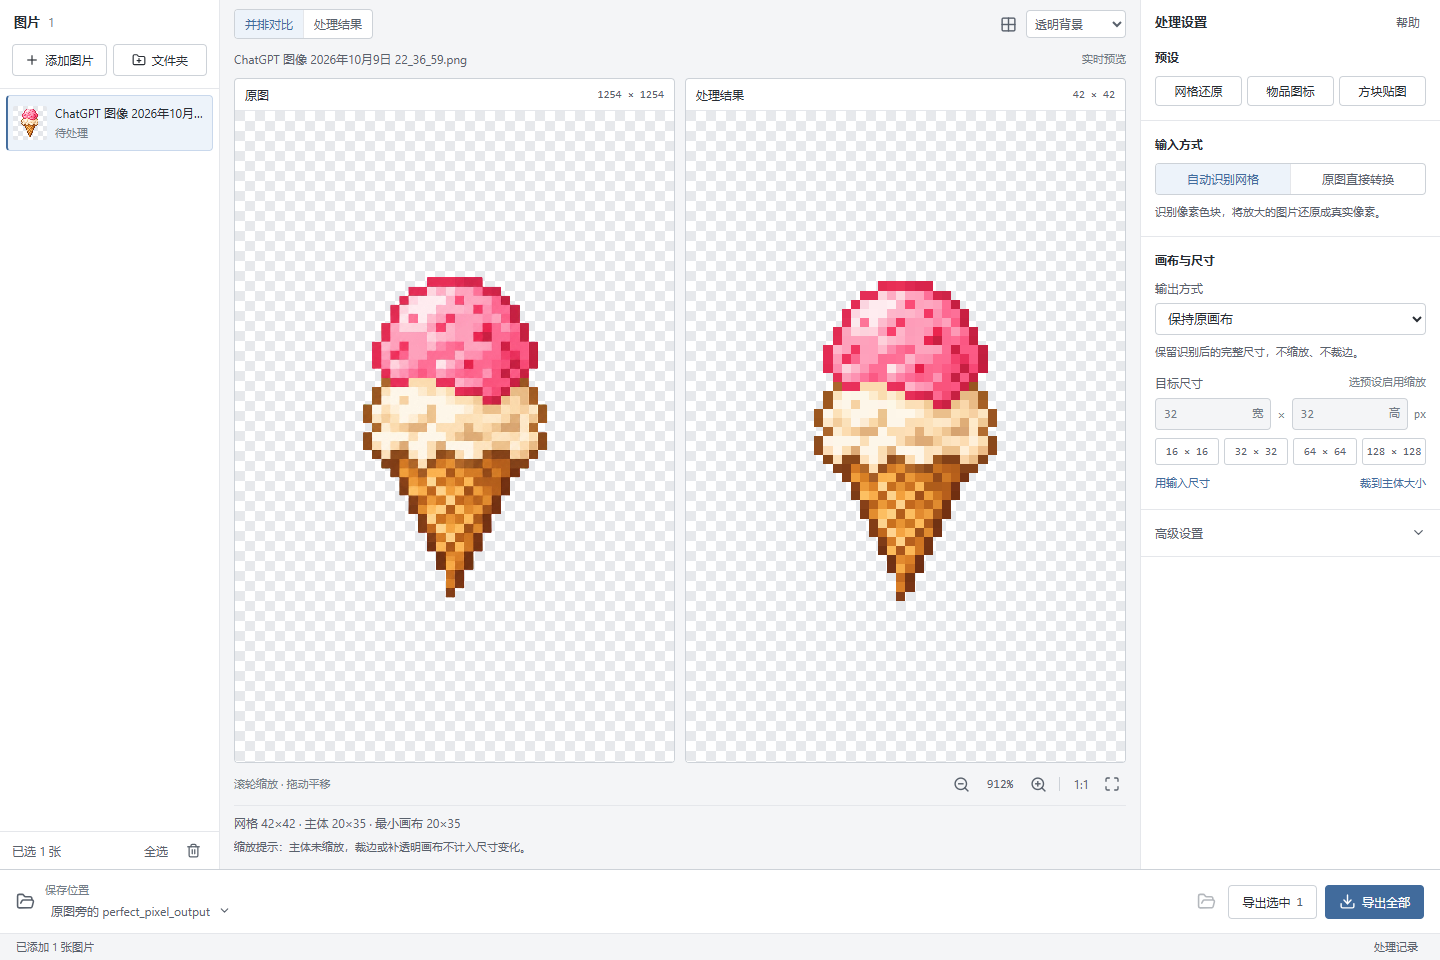
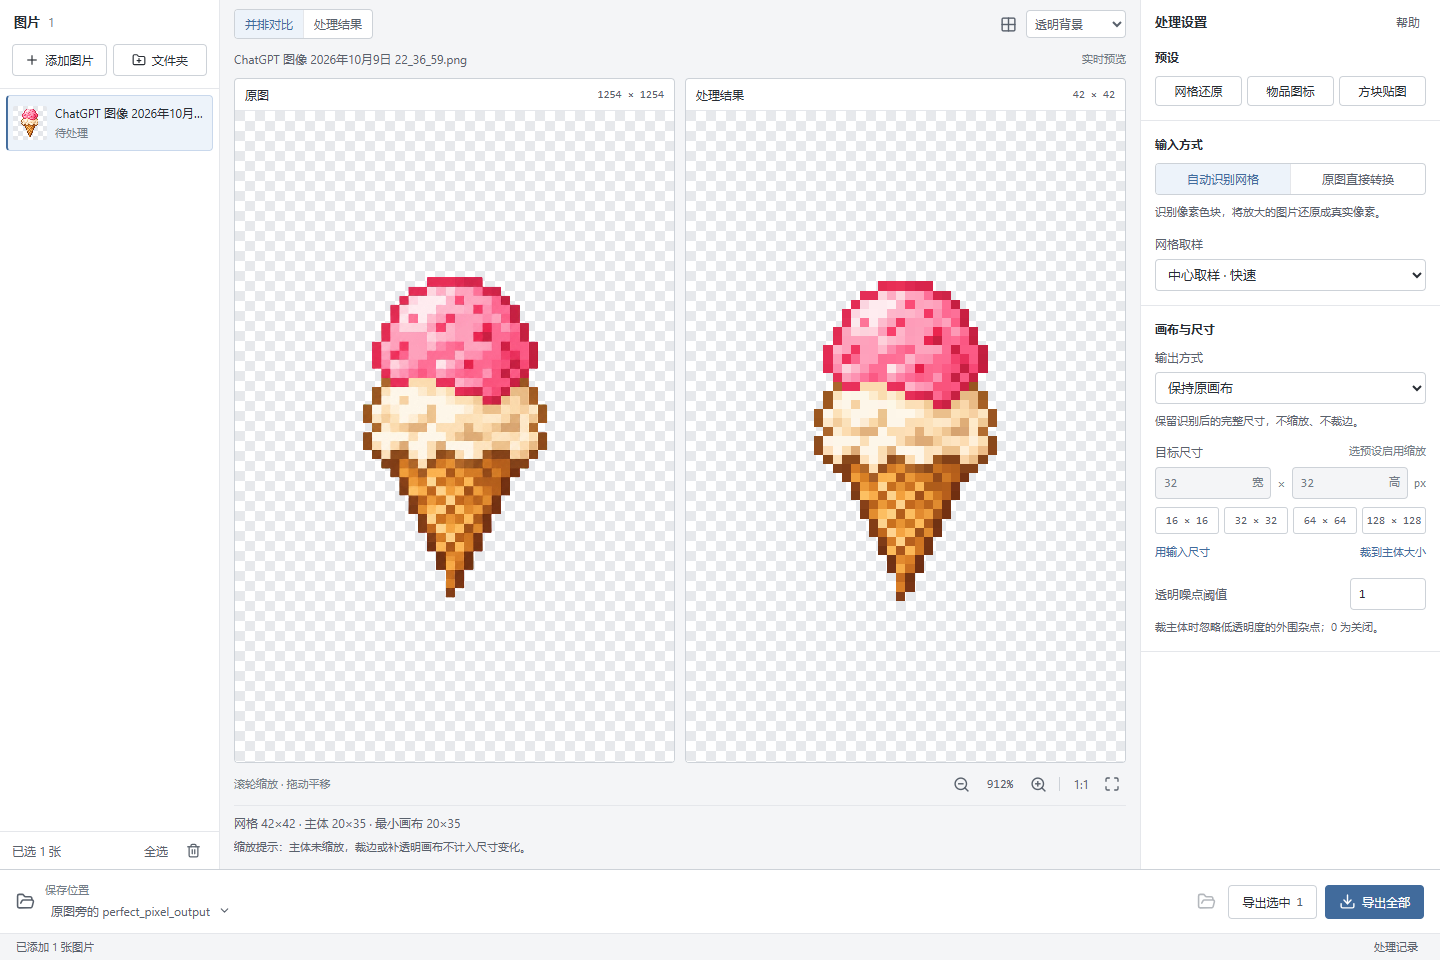
调整网格取样与透明噪点阈值的界面位置

Changed region(s): [[0.7812, 0.25, 1.0, 0.6562]]

diff --git a/frontend/src/App.vue b/frontend/src/App.vue
@@ -195,12 +195,14 @@ onBeforeUnmount(() => {
       <aside class="settings-panel"><div class="panel-title"><h2>处理设置</h2><button class="text-button" @click="showHelp = true">帮助</button></div>
         <fieldset class="settings-scroll" :disabled="busy || !connected">
           <section class="setting-section"><div class="section-heading">预设</div><div class="preset-actions"><button @click="preset('restore')">网格还原</button><button @click="preset('item')">物品图标</button><button @click="preset('block')">方块贴图</button></div></section>
-          <section class="setting-section"><div class="section-heading">输入方式</div><div class="segmented full"><button :class="{ active: !options.direct }" @click="options.direct = false">自动识别网格</button><button :class="{ active: options.direct }" @click="options.direct = true">原图直接转换</button></div><p class="help-text">{{ options.direct ? '跳过网格识别，直接调整原图。' : '识别像素色块，将放大的图片还原成真实像素。' }}</p></section>
+          <section class="setting-section"><div class="section-heading">输入方式</div><div class="segmented full"><button :class="{ active: !options.direct }" @click="options.direct = false">自动识别网格</button><button :class="{ active: options.direct }" @click="options.direct = true">原图直接转换</button></div><p class="help-text">{{ options.direct ? '跳过网格识别，直接调整原图。' : '识别像素色块，将放大的图片还原成真实像素。' }}</p>
+            <template v-if="!options.direct"><label class="field-label" for="grid-method">网格取样</label><select id="grid-method" v-model="options.method"><option value="center">中心取样 · 快速</option><option value="median">中位数 · 去噪</option><option value="majority">多数色 · 较慢</option></select></template>
+          </section>
           <section class="setting-section"><div class="section-heading">画布与尺寸</div><label class="field-label" for="layout">输出方式</label><select id="layout" v-model="options.layout"><option value="original">保持原画布</option><option value="fit">主体等比例缩放</option><option value="canvas_fit">整图等比例缩放</option><option value="keep">主体不缩放 · 改画布</option></select><p class="help-text">{{ layoutHelp }}</p>
             <label class="field-label">目标尺寸 <span v-if="options.layout === 'original'">选预设启用缩放</span></label><div class="dimension-inputs"><label><input v-model.number="options.width" type="number" min="1" :max="options.layout === 'keep' ? 8192 : 1024" aria-label="画布宽度" :disabled="options.layout === 'original'"/><span>宽</span></label><span>×</span><label><input v-model.number="options.height" type="number" min="1" :max="options.layout === 'keep' ? 8192 : 1024" aria-label="画布高度" :disabled="options.layout === 'original'"/><span>高</span></label><small>px</small></div><div class="size-presets"><button v-for="size in [16, 32, 64, 128]" :key="size" :class="{ chosen: options.layout !== 'original' && options.width === size && options.height === size }" @click="setSize(size)">{{ size }} × {{ size }}</button></div><div class="dimension-actions"><button :disabled="!preview?.info?.grid || pending" @click="useDimensions(false)">用输入尺寸</button><button :disabled="!preview?.info?.subject || pending" @click="useDimensions(true)">裁到主体大小</button></div>
+            <label class="threshold-field" for="alpha-threshold">透明噪点阈值<input id="alpha-threshold" v-model.number="options.alpha_threshold" type="number" min="0" max="254" aria-describedby="alpha-threshold-help"/></label><p id="alpha-threshold-help" class="help-text">裁主体时忽略低透明度的外围杂点；0 为关闭。</p>
           </section>
           <section v-if="resize" class="setting-section"><div class="section-heading">缩放算法</div><select v-model="options.resample" aria-label="缩放算法"><option value="pixel">目标像素 · 结构保护</option><option value="nearest">像素硬边 · 最近邻</option><option value="k-centroid">k-centroid · 局部主色</option></select><p class="help-text">{{ algorithmHelp }}</p><div v-if="options.resample === 'pixel'" class="paired-fields"><label>目标颜色<select v-model.number="options.palette_size"><option :value="0">保留颜色</option><option v-for="n in [8, 16, 32, 64]" :key="n" :value="n">{{ n }} 色</option></select></label><label>细节保护<select v-model.number="options.detail"><option :value="0">关闭</option><option :value="1">适中</option><option :value="2">较强</option></select></label></div></section>
-          <details class="setting-section advanced"><summary><span>高级设置</span><ChevronDown :size="15"/></summary><div class="advanced-content"><label class="field-label">网格取样<select v-model="options.method" :disabled="options.direct"><option value="center">中心取样 · 快速</option><option value="median">中位数 · 去噪</option><option value="majority">多数色 · 较慢</option></select></label><label class="field-label">透明噪点阈值<input v-model.number="options.alpha_threshold" type="number" min="0" max="254"/></label><p class="help-text">0 关闭。裁边时忽略透明度不超过此值的外围杂点，不修改主体内的像素。</p></div></details>
         </fieldset>
       </aside>
     </main>

diff --git a/frontend/src/style.css b/frontend/src/style.css
@@ -115,12 +115,8 @@ input:disabled, select:disabled { color: var(--faint); background: var(--base); 
 .paired-fields { display: flex; gap: 8px; margin-top: 12px; }
 .paired-fields label { flex: 1; color: var(--muted); font-size: 12px; min-width: 0; }
 .paired-fields select { margin-top: 5px; }
-.advanced summary { list-style: none; display: flex; justify-content: space-between; align-items: center; cursor: pointer; font-size: 12px; color: var(--muted); }
-.advanced summary::-webkit-details-marker { display: none; }
-.advanced[open] summary > svg { transform: rotate(180deg); }
-.advanced-content { margin-top: 14px; }
-.advanced-content select, .advanced-content input { margin-top: 6px; }
-.advanced-content .field-label + .field-label { margin-top: 12px; }
+.threshold-field { display: flex; align-items: center; justify-content: space-between; gap: 8px; margin-top: 14px; font-size: 12px; color: var(--muted); }
+.threshold-field input { width: 76px; flex-shrink: 0; font-family: Consolas, monospace; }
 .export-bar { min-height: 64px; padding: 10px 16px; flex-shrink: 0; display: flex; align-items: center; justify-content: space-between; gap: 16px; border-top: 1px solid var(--border-strong); background: var(--panel); }
 .export-destination { display: flex; align-items: center; gap: 10px; color: var(--muted); min-width: 0; }
 .export-destination > div { min-width: 0; }
